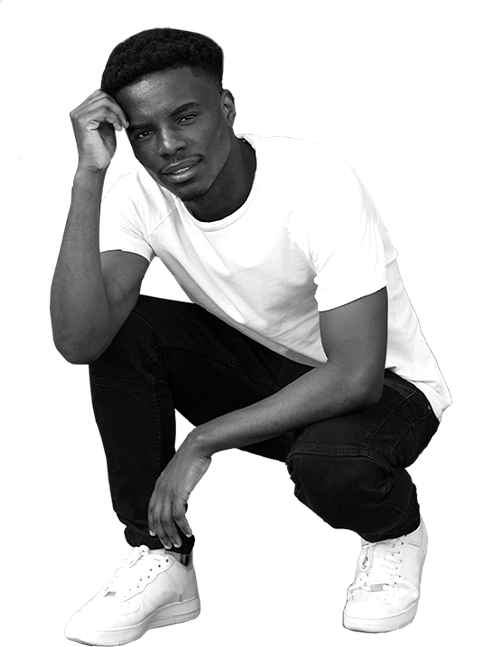
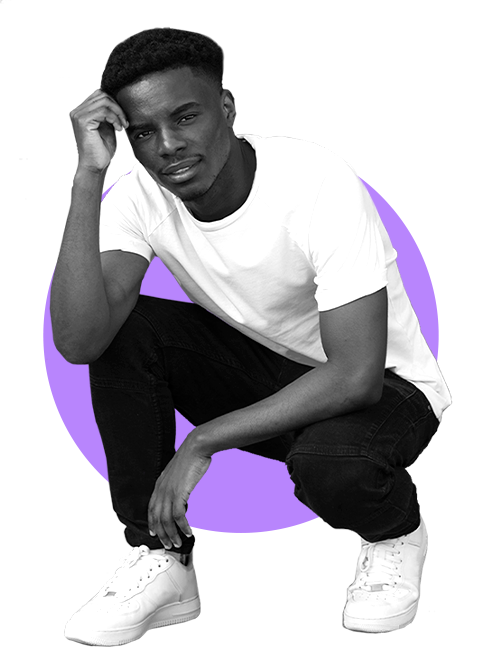
did section 4

diff --git a/styles/styles.css b/styles/styles.css
@@ -16,7 +16,7 @@ body {
 
 .hero-wrapper {
     width: 1440px;
-
+    overflow-x: hidden;
 }
 
 /* 
@@ -343,6 +343,139 @@ four course cards, more courses)  */
 .wrapper-more-courses-3 img {
     transform: rotate(-90deg);
 }
+
+/* section 4 (about us, read more, photo) */
+
+.oval-4 {
+    /* transform: rotate(-45deg); */
+    position: absolute;
+    
+    height: 219px;
+    width: 189px;
+}
+
+.section-4-about-us {
+    height: 934px;
+    display: flex;
+    justify-content: space-around;
+    background: url('../images/section4_circle_oval.png') no-repeat;
+    background-size: 189px 219px;
+    background-position-x: left;
+    align-items: center;
+}
+
+.photo-wrapper-4 {
+    width: 487px;
+}
+
+.photo-4 {
+    height: 647px;
+    width: 487px;
+    margin-bottom: 99px;
+    padding-bottom: 9px;
+    margin-left: -23px;
+}
+
+.circe-wrapper-4 {
+    position: absolute;
+    width: 1054px;
+    display: flex;
+    justify-content: flex-end;
+    align-self: normal;
+    margin-top: 84px;
+}
+
+.circle-4 {
+    height: 21px;
+    width: 21px;
+    border-radius: 50%;
+    background-color: #b885fd; 
+}
+
+.wrapper-text-block-4 {
+    height: 481px;
+    display: flex;
+    flex-direction: column;
+    margin-left: 73px;
+}
+
+.wrapper-text-block-4 h1 {
+    font-size: 60px;
+    font-weight: 700;
+    letter-spacing: 3.5px;
+}
+
+.wrapper-text-block-4 h1 span {
+    font-weight: 400;
+    color: #b885fd;
+    padding-left: 10px;
+    letter-spacing: 7px;
+}
+
+.wrapper-text-block-4 p {
+    font-weight: 700;
+    font-size: 14px;
+    line-height: 25px;
+    width: 376px;
+    margin-top: 24px;
+    margin-left: 1px;
+    text-align: justify;
+    word-spacing: 1.25px;
+    letter-spacing: 0.457px;
+}
+
+.options-table-4 {
+    margin-top: 88px;
+    height: 98px;
+    width: 437px;
+    display: flex; 
+    justify-content: space-between;  
+    text-transform: uppercase;
+}
+.options-table-4 div {
+    height: 77px;
+    margin-top: -8px;
+    display: flex;
+    flex-direction: column;
+    justify-content: space-between;
+}
+.options-table-4 div p {
+    width: 158px;
+    margin: 0;
+    margin-left: 2px;
+    margin-top: -15px;
+    font-size: 12px;
+    letter-spacing: 0.5px;    
+    word-spacing: 0.5px;
+}
+
+.options-table-4 div p i {
+    margin: 0;
+    margin-right: 5px;
+}
+
+.wrapper-text-block-4 button {
+    width: 128px;
+    height: 52px;
+    margin-top: 35px;
+    margin-left: -1px;
+    background-color: #b885fd; 
+    border: 1px solid rgb(84, 63, 11);
+    font-family: 'Oswald', sans-serif;
+    font-size: 15px;
+    font-weight: 700;
+    letter-spacing: 0.6px;
+    color: #FFF;
+    text-transform: uppercase;
+}
+
+.wrapper-text-block-4 button:hover {
+    color: #b885fd;
+    background-color: #FFF;
+}
+/* .wrappper-text-block div {
+    display: flex;   
+} */
 
 /* SECTION 6 (start now 'video') */
 

diff --git a/index.html b/index.html
@@ -125,7 +125,42 @@
 
         <!-- section 4 (about us, read more, 
         photo) -->
-        <section></section>
+        <section class="section-4-about-us">
+            <div class="circe-wrapper-4">
+                <div class="circle-4"></div>
+            </div>
+            <div class="wrapper-text-block-4">
+                <h1>About<span>us.</span></h1>
+                <p>Lorem ipsum dolor sit amet, consectetur adipiscing elit, sed do eiusmod tempor incididunt ut labore et dolore magna aliqua Quis ipsum suspendisse.</p>
+                <div class="options-table-4">
+                    <div>
+                        <p>
+                            <i class="fa-solid fa-square-full fa-2xs" style="color: #b885fd;"></i>
+                            Lorem ipsum dolor.
+                        </p>
+                        <p>
+                            <i class="fa-solid fa-square-full fa-2xs" style="color: #b885fd;"></i>     
+                            Lorem ipsum dolor.
+                        </p>
+                    </div>
+                    <div>
+                        <p>
+                            <i class="fa-solid fa-square-full fa-2xs" style="color: #b885fd;"></i>     
+                            Lorem ipsum dolor.
+                        </p>
+                        <p>
+                            <i class="fa-solid fa-square-full fa-2xs" style="color: #b885fd;"></i>     
+                            Lorem ipsum dolor.
+                        </p>
+                    </div>
+                </div>
+                <button>Read more</button>
+            </div>
+            <div class="photo-wrapper-4">
+                <img class="photo-4" src="./images/section4_portait.png" alt="person photo">
+            </div>
+            
+        </section>
 
         <!-- section 5 (photo, why ys, read
         more) -->
